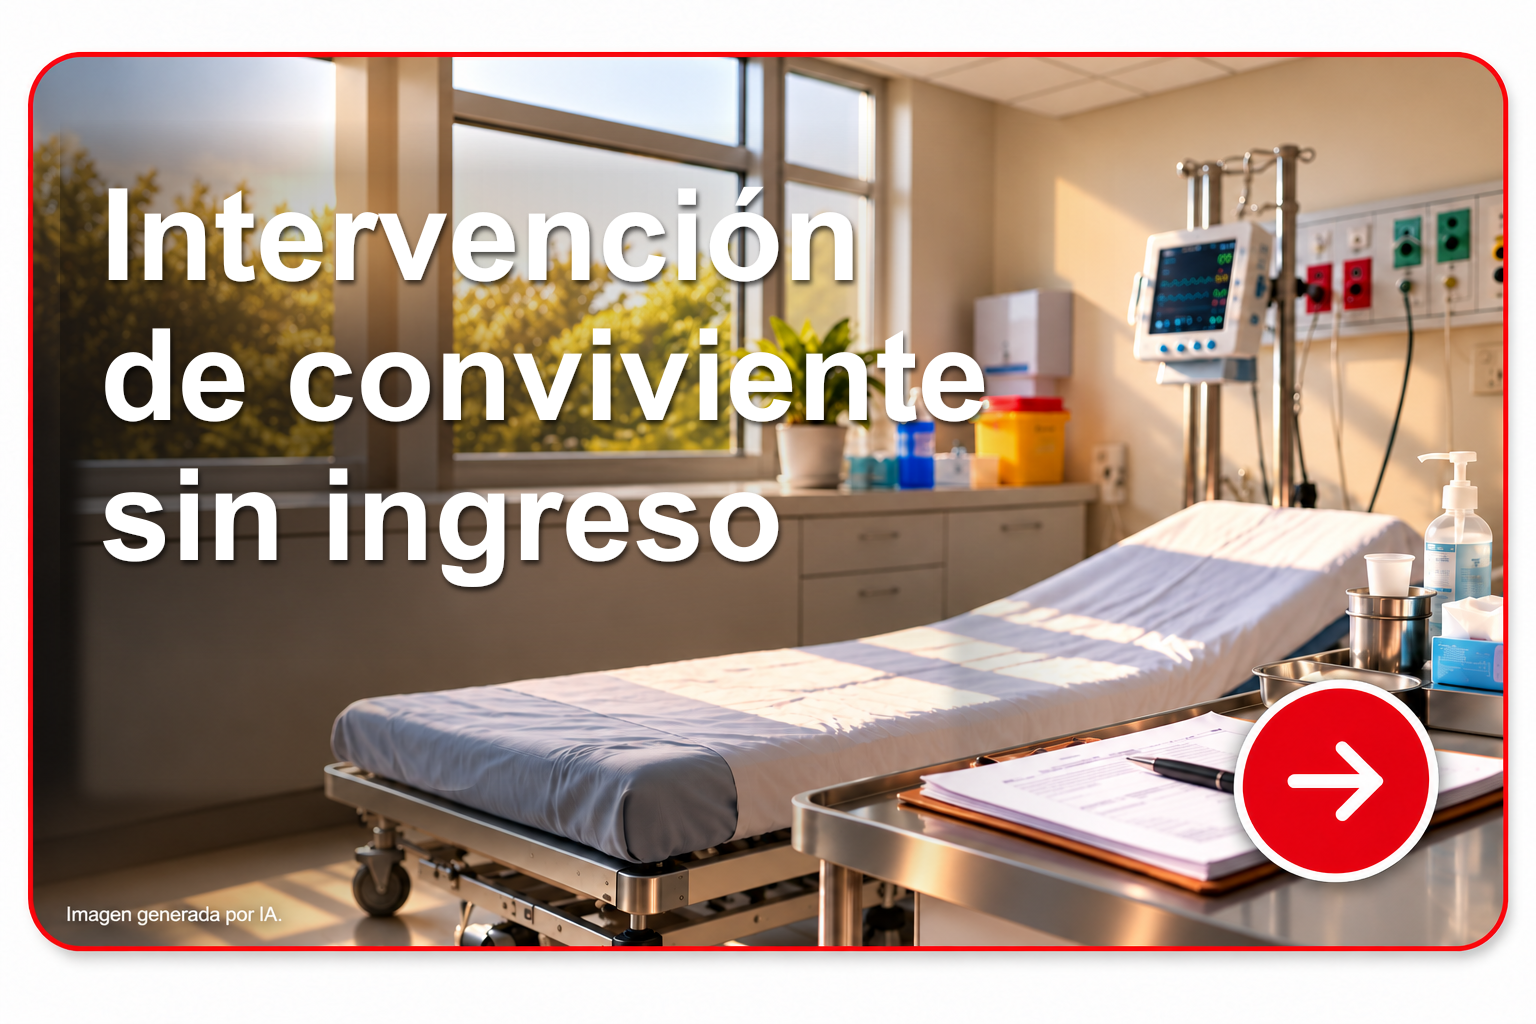
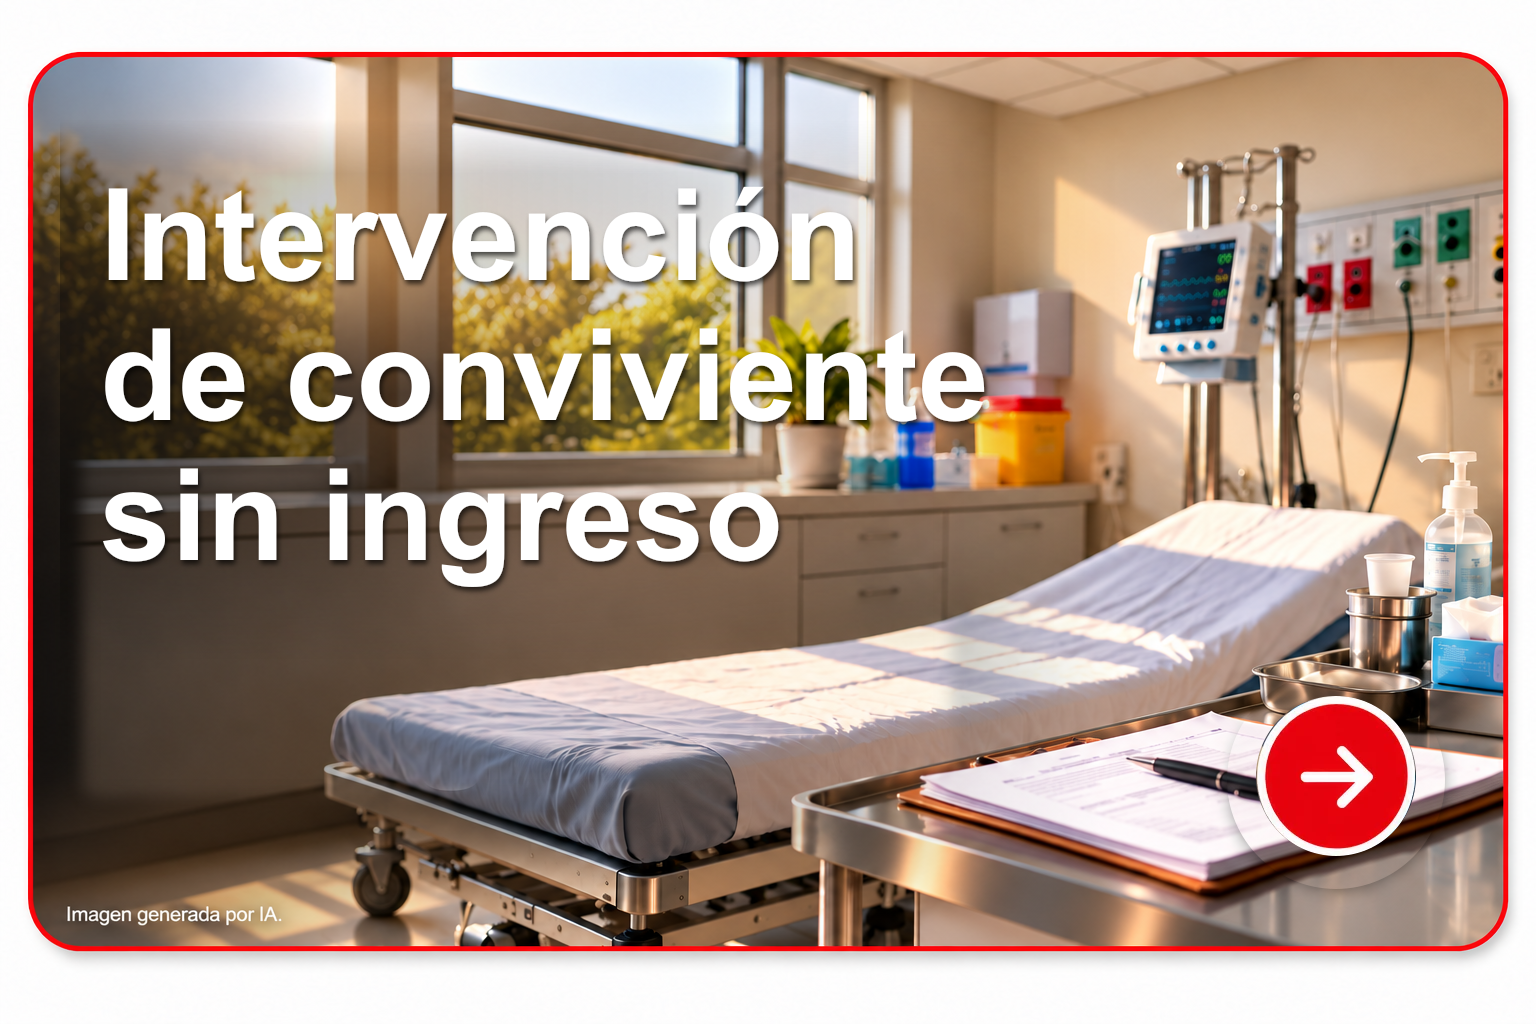
Match cohabitant intervention arrow circle to family cards

Changed region(s): [[0.7812, 0.6562, 0.9375, 0.875]]

diff --git a/service-worker.js b/service-worker.js
@@ -1,4 +1,4 @@
-const CACHE_NAME = 'str-ig-cache-v110';
+const CACHE_NAME = 'str-ig-cache-v111';
 
 const SUPABASE_URL = 'https://icneigdnuntzugisexaz.supabase.co';
 const SUPABASE_PUBLISHABLE_KEY = 'sb_publishable_apKjcPClIBTHS2wwN6qPsA_6Vm4tk9m';
